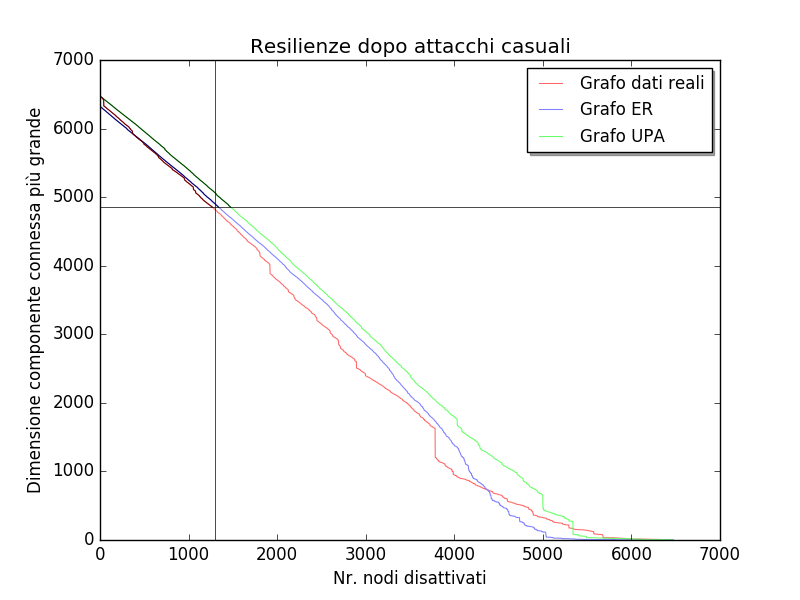
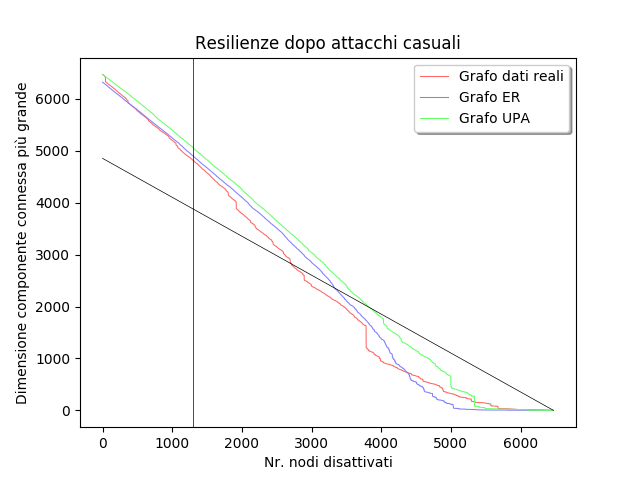
risolto problema grafici

diff --git a/Lab1/Graph.py b/Lab1/Graph.py
@@ -207,33 +207,13 @@ def printPlotRandom_masked(ArrResilD, ArrResilER, ArrResilUPA, numNodes, fileNam
     ax.legend(loc="upper right", shadow=True, fontsize="medium")
 
 
-    y_threshold = numNodes*0.75
-    x_threshold = numNodes*0.2
+    y_threshold = []
+    for i in range(numNodes):
+        y_threshold.append((numNodes - i) * 0.75)
 
-    yE = []
-    yU = []
-    yD = []
-    cE = 0
-    cU = 0
-    cD = 0
-    for i in ArrResilER:
-        if i >= y_threshold:
-            yE.append(i)
-            cE += 1
-    for i in ArrResilUPA:
-        if i >= y_threshold:
-            yU.append(i)
-            cU += 1
-    for i in ArrResilD:
-        if i >= y_threshold:
-            yD.append(i)
-            cD += 1
+    x_threshold = numNodes * 0.2
 
-    ax.plot(np.arange(cE), yE, "#000066", linewidth=0.75)
-    ax.plot(np.arange(cU), yU, "#003300", linewidth=0.75)
-    ax.plot(np.arange(cD), yD, "#660000", linewidth=0.75)
-
-    ax.axhline(y=y_threshold, linewidth=0.5, color="k")
+    ax.plot(y_threshold, linewidth=0.5, color="k")
     ax.axvline(x=x_threshold, linewidth=0.5, color="k")
 
     fig.savefig(fileName)
